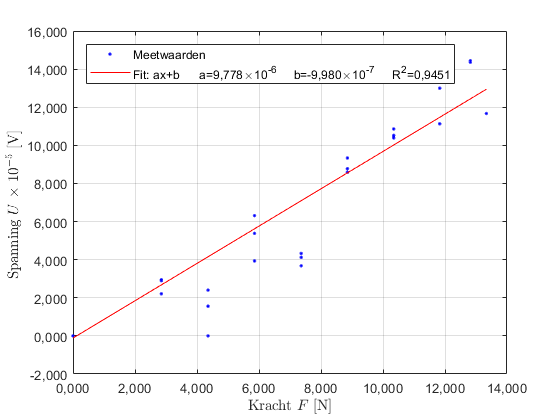
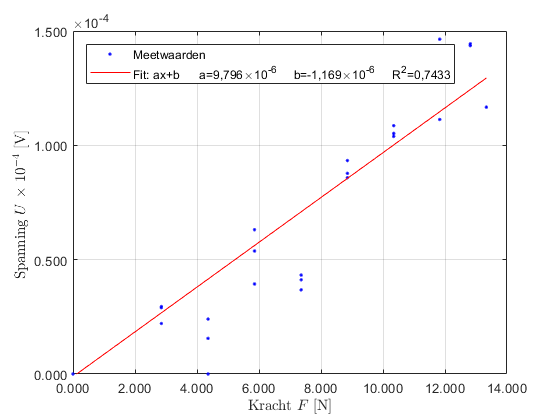
.

diff --git a/Data/VO/Meting gewichten/gevoeligheid.m b/Data/VO/Meting gewichten/gevoeligheid.m
@@ -4,7 +4,7 @@ time_raw = sample(:,5);
 
 % meting = sample(:,1);
 massa = sample(:,1);
-freq_piek1 = sample(:,2);
+% freq_piek1 = sample(:,2);
 % spanning_piek1 = sample(:,3);
 freq_piek2 = sample(:,4);
 spanning_piek2 = sample(:,5);
@@ -16,7 +16,7 @@ r = 4.3E-2; % 5.9 +- 0.5 + 1 cm? voor radius vd pijp waar die aan zit
 m_tot = massa + rust_massa;
 
 % kracht = omega.^2*r.*m_tot;
-a_z = r*omega.^2
+a_z = r*omega.^2;
 % kracht = m_tot.*(a_z)
 
 
@@ -26,24 +26,25 @@ fit_gevoeligheid_piek1(kracht, spanning_piek1)
 
 % labels & legend zelf aanpassen in createFit
 xlim([0 14])
-legend('Meetwaarden', 'Fit: ax+b      a=9,778\times10^{-6}     b=-9,980\times10^{-7}     R^2=0,9451', 'Interpreter', 'latex', 'Location' ,'NorthWest')
-% legend('Meetwaarden', 'Fit', 'Interpreter', 'latex', 'Location' ,'NorthWest')
+ylim([0 1.5E-4])
+% legend('Meetwaarden', 'Fit: ax+b      a=9,796\times10^{-6}     b=-1,169\times10^{-6}     R^2=0,7433', 'Interpreter', 'latex', 'Location' ,'NorthWest')
+legend('Meetwaarden', 'Fit', 'Interpreter', 'latex', 'Location' ,'NorthWest')
 
 % Correcte significantie maken voor plot 1
 xtickformat('%.3f')
 ytickformat('%.3f')
 
-% Punt naar comma veranderen voor de de assen van plot 1
-x = get(gca, 'XTickLabel');
-nieuw_x = strrep(x(:),'.',',');
-set(gca, 'XTickLabel', nieuw_x)
-y = get(gca, 'YTickLabel');
-nieuw_y = strrep(y(:),'.',',');
-set(gca, 'YTickLabel', nieuw_y)
+% % Punt naar comma veranderen voor de de assen van plot 1
+% x = get(gca, 'XTickLabel');
+% nieuw_x = strrep(x(:),'.',',');
+% set(gca, 'XTickLabel', nieuw_x)
+% y = get(gca, 'YTickLabel');
+% nieuw_y = strrep(y(:),'.',',');
+% set(gca, 'YTickLabel', nieuw_y)
 
 % Label axes
 xlabel('Kracht $F$ [N]', 'Interpreter', 'latex')
-ylabel('Spanning $U$ $\times$ 10$^{-5}$ [V] ', 'Interpreter', 'latex')
+ylabel('Spanning $U$ $\times$ 10$^{-4}$ [V] ', 'Interpreter', 'latex')
 grid on
 
 
